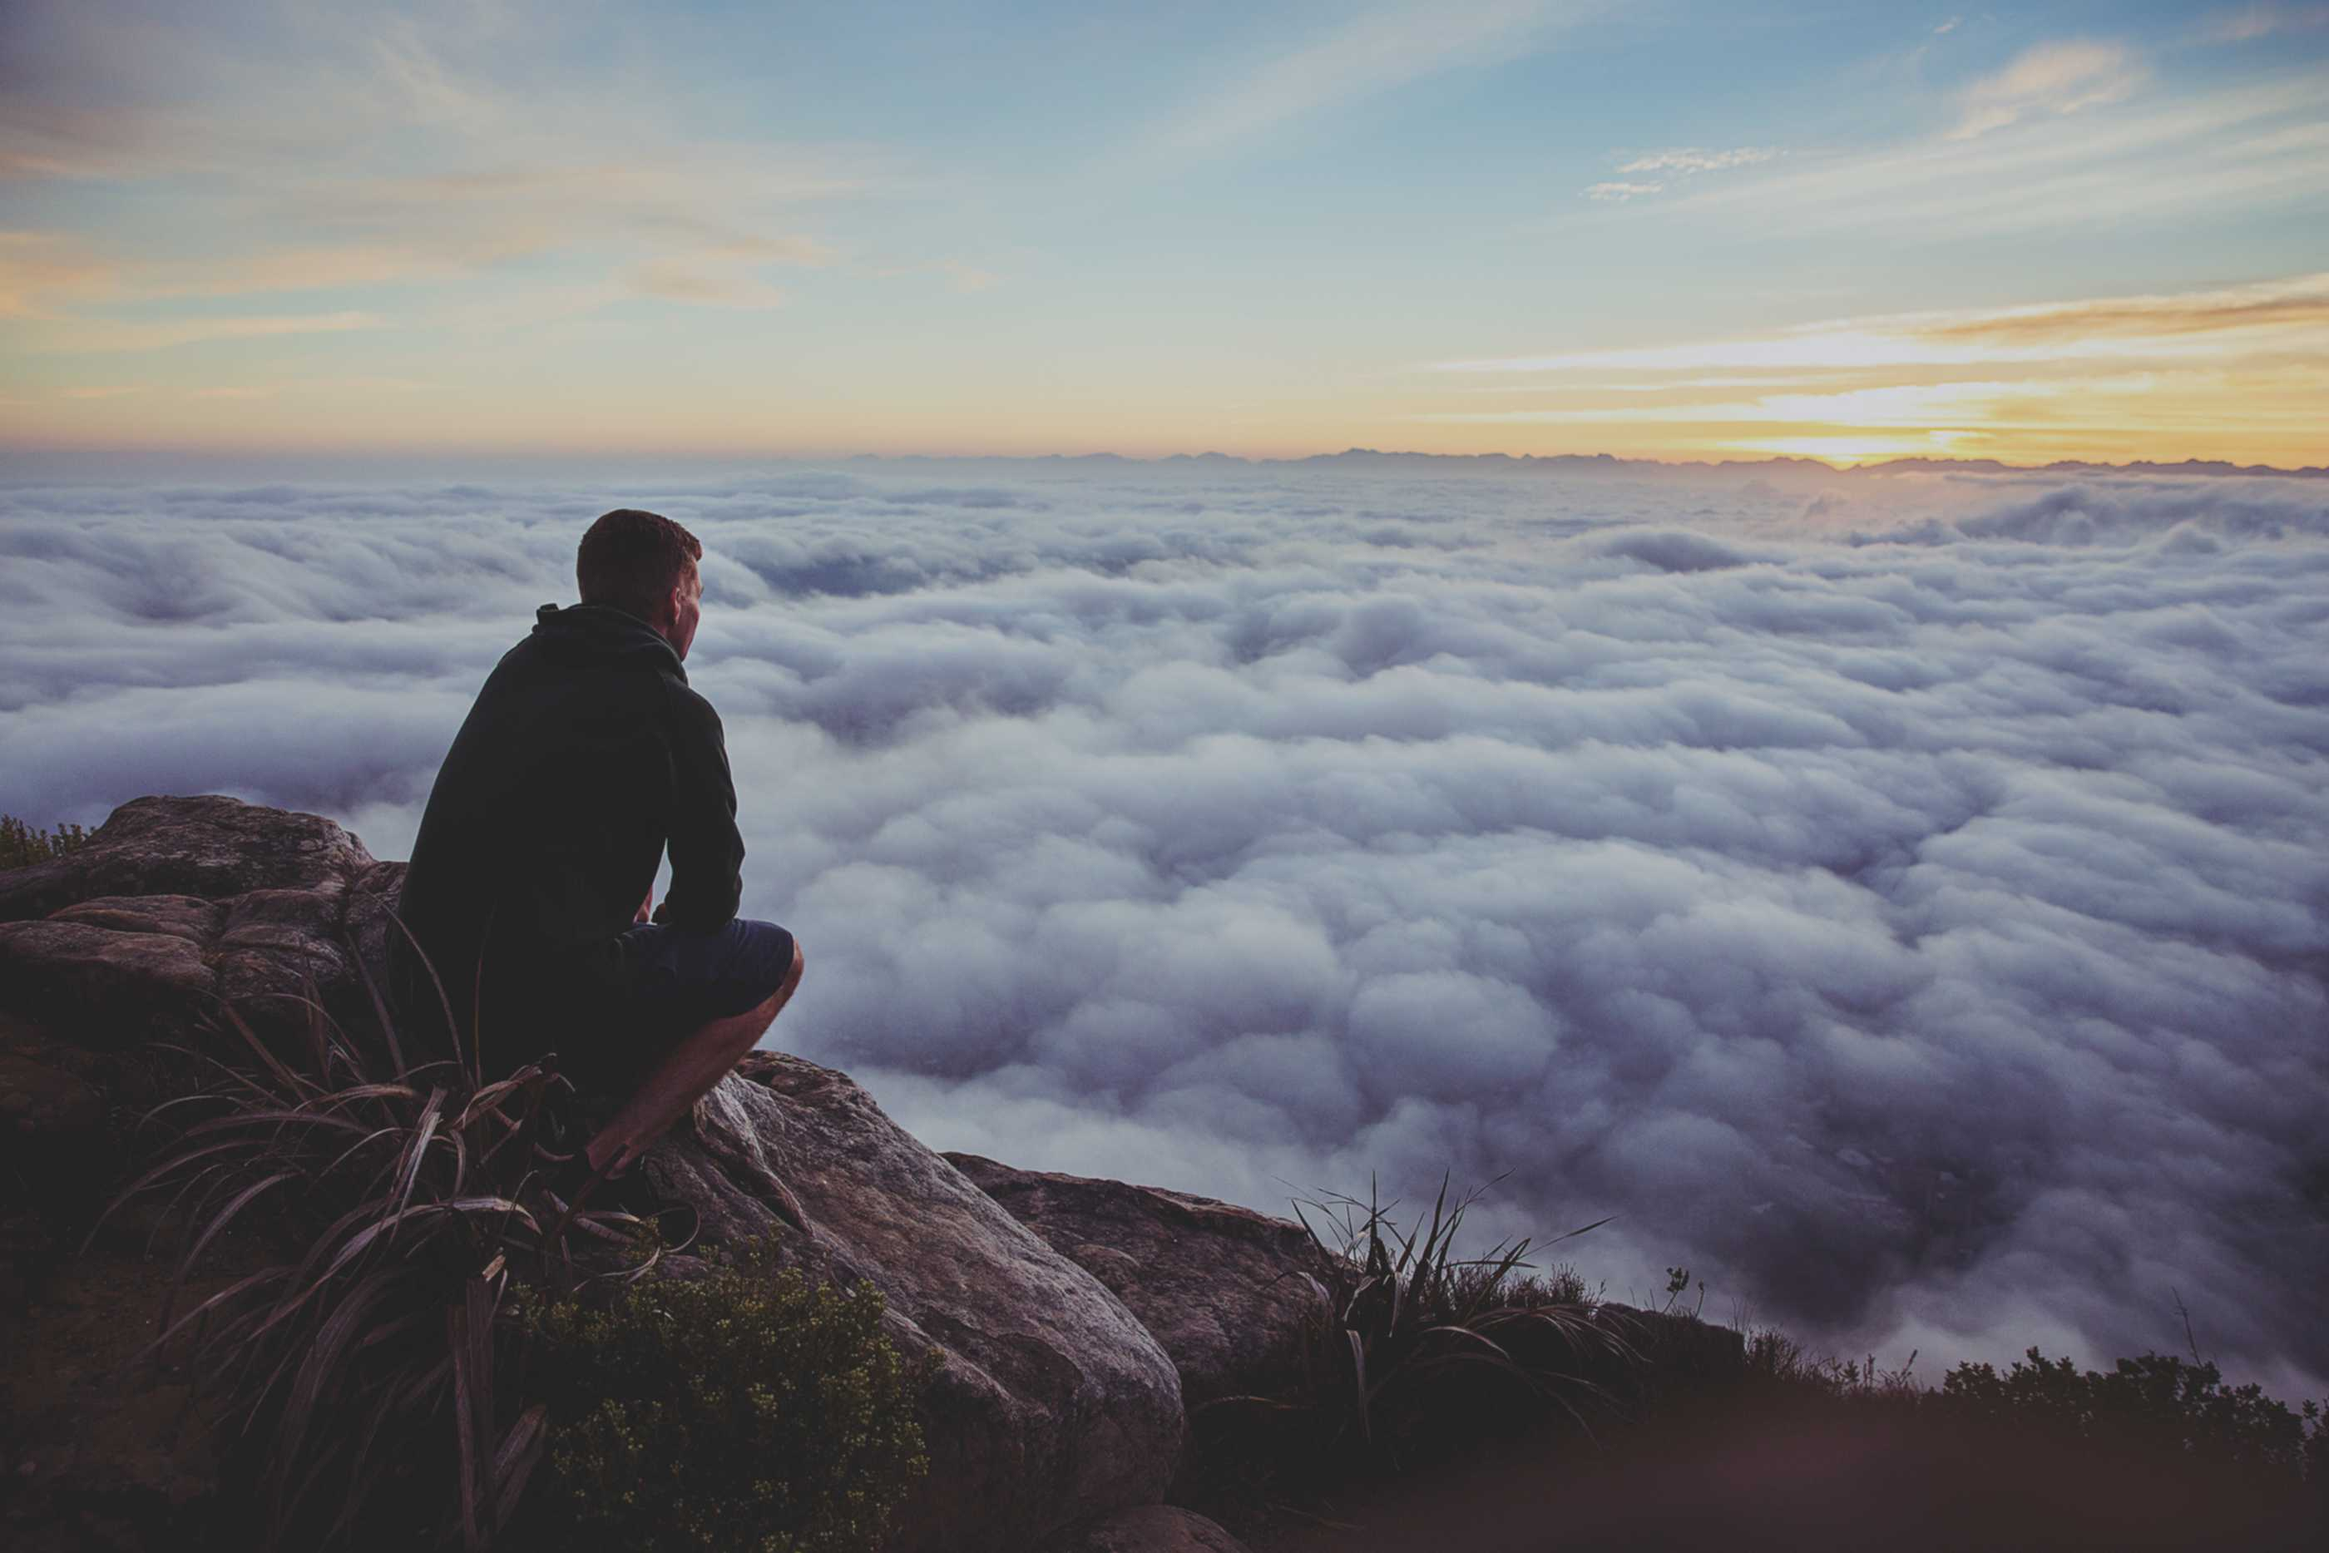
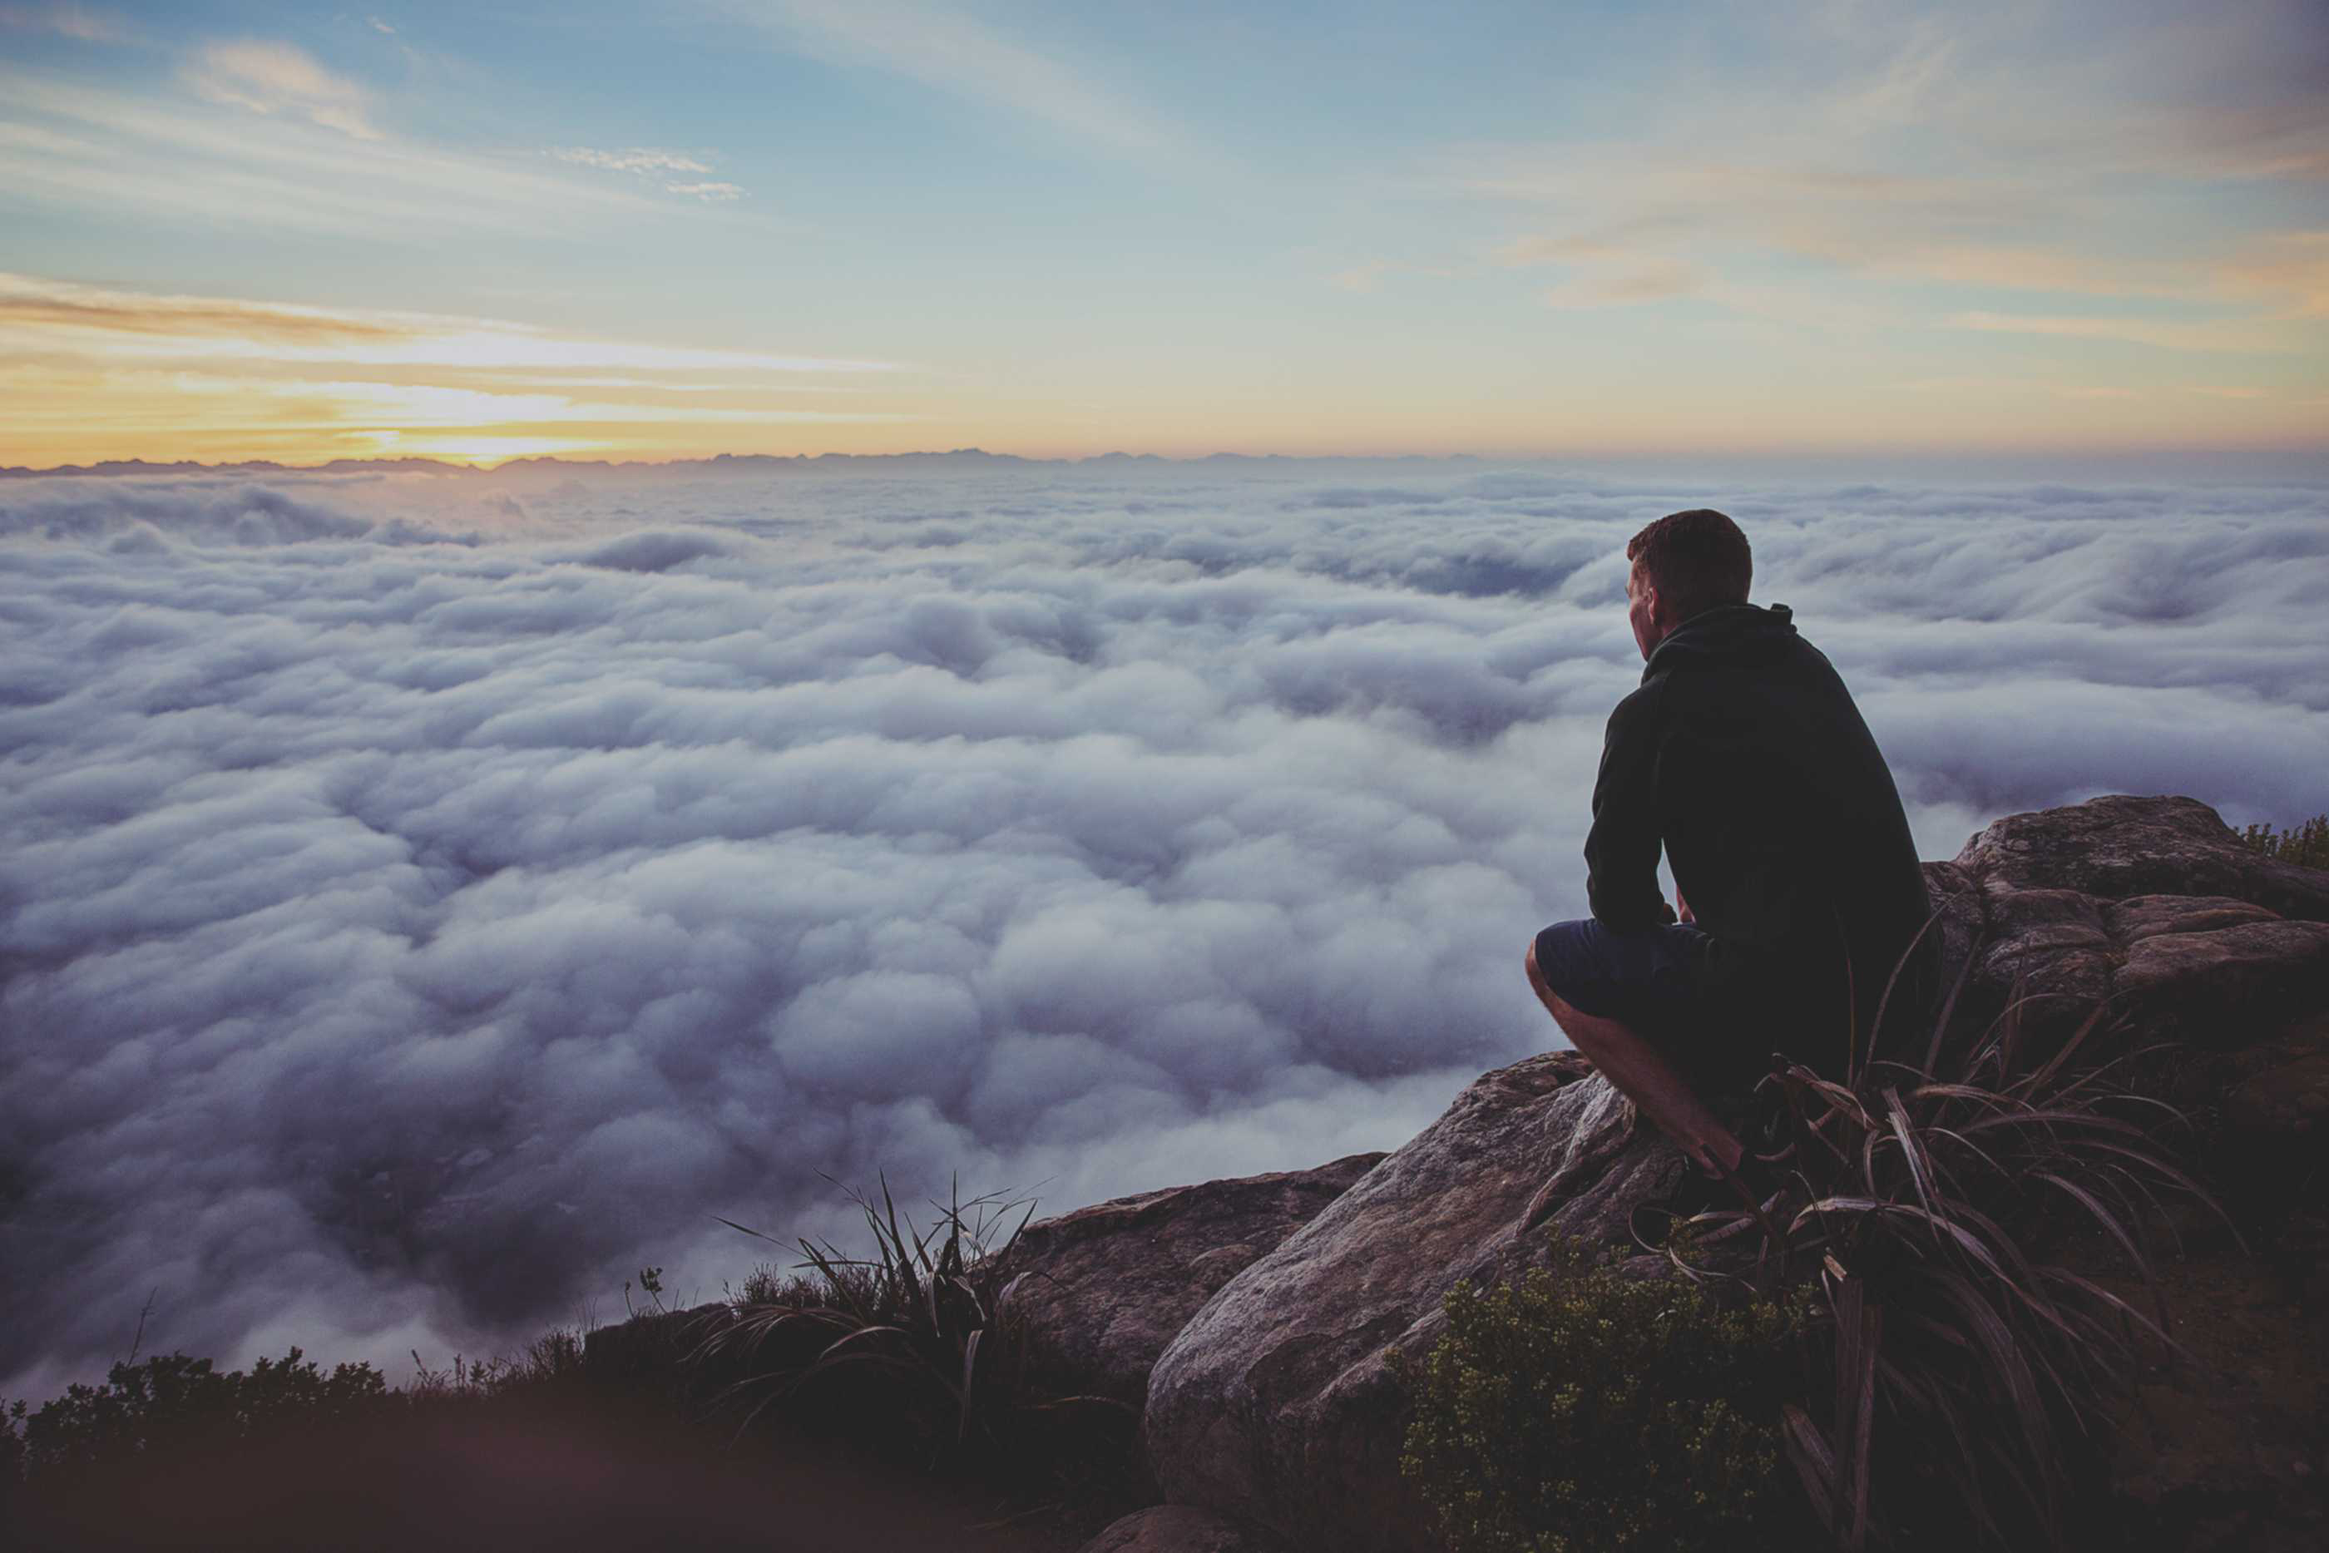
fix focal point on header image and first ilustration position on the grid

diff --git a/assets/css/features.css b/assets/css/features.css
@@ -69,6 +69,10 @@
 .image--floated {
   float: right; }
 
+.acess__anywhere {
+  max-width: 400px;
+  margin: 0 auto; }
+
 .section--files {
   padding-top: 80px; }
 

diff --git a/assets/css/features.scss b/assets/css/features.scss
@@ -12,6 +12,11 @@
 	float: right;
 }
 
+.acess__anywhere {
+	max-width: 400px;
+    margin: 0 auto;
+}
+
 .section--files {
 	padding-top: 80px;
 }

diff --git a/page-features.php b/page-features.php
@@ -51,10 +51,10 @@
 <section class="section--hosting">
 	<a name="hosting" id="hosting"></a>
 	<div class="container">
-		<div class="col-md-4">
-			<img class="img-responsive" src="<?php echo get_template_directory_uri(); ?>/assets/img/common/access-anywhere.png" alt="in action" >
+		<div class="col-md-6">
+			<img class="img-responsive acess__anywhere" src="<?php echo get_template_directory_uri(); ?>/assets/img/common/access-anywhere.png" alt="in action" >
 		</div>
-		<div class="col-md-8 feature--block">
+		<div class="col-md-6 feature--block">
 			<p class="section--paragraph__tittle"><?php echo $l->t('Nextcloud gives you access to all your files wherever you are.');?></p>
 			<p class="section--paragraph"><?php echo $l->t('Where are your photos and documents? With Nextcloud <strong>you</strong> pick a server of your choice, at home, in a data center or at a <a class="hyperlink" href="/providers">provider</a>. And that is where your files will be. Nextcloud runs on that server, protecting your data and giving you access from your desktop or mobile devices. Through Nextcloud you also access, sync and share your existing data on that FTP drive at the office, a Dropbox or a NAS you have at home.');?></p>
 			<a href="/install" class="button button--blue button--arrow button--large"><?php echo $l->t('Get started');?></a>
